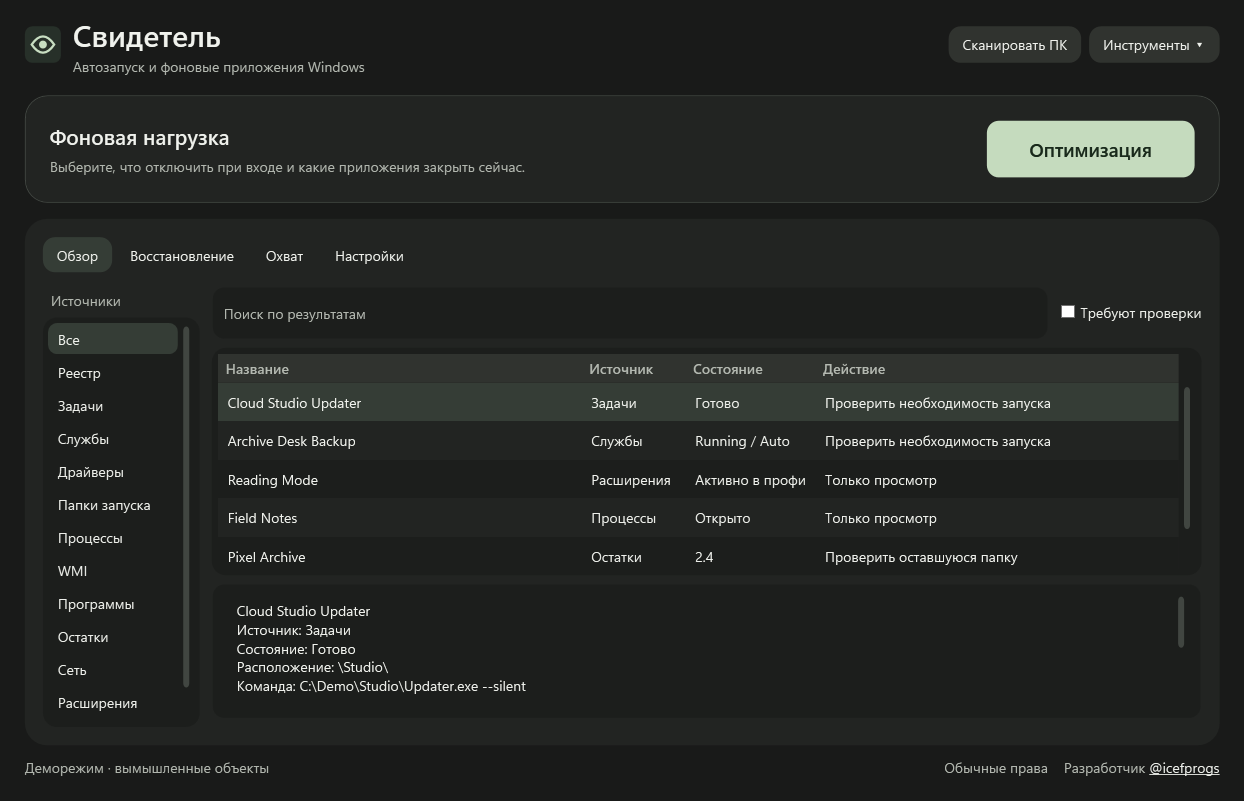
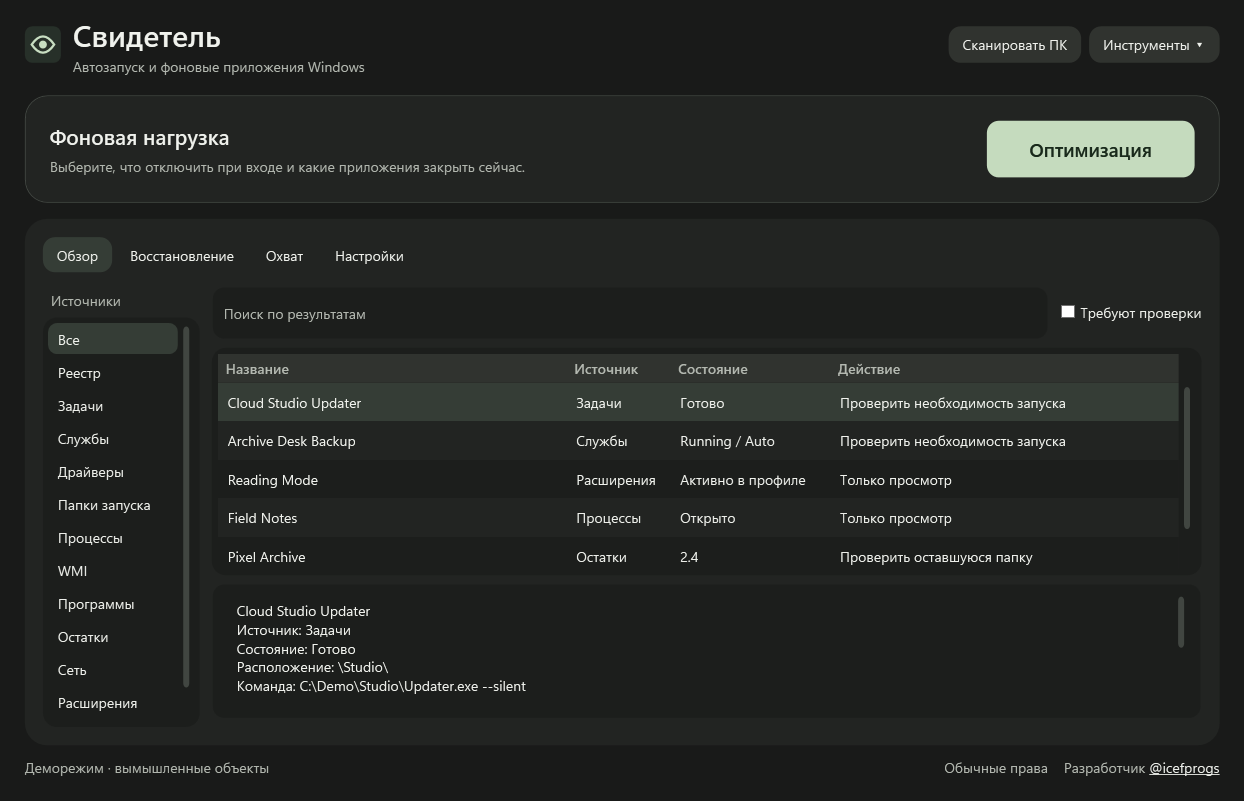
Prepare the Svidetel 3.0.0 release

diff --git a/Svidetel/MainWindow.xaml b/Svidetel/MainWindow.xaml
@@ -85,7 +85,7 @@
                   <DataGrid.Columns>
                     <DataGridTextColumn Header="Название" Binding="{Binding Name}" Width="2*"/>
                     <DataGridTextColumn Header="Источник" Binding="{Binding Category}" Width="104"/>
-                    <DataGridTextColumn Header="Состояние" Binding="{Binding State}" Width="130"/>
+                    <DataGridTextColumn Header="Состояние" Binding="{Binding State}" Width="160"/>
                     <DataGridTextColumn Header="Действие" Binding="{Binding Recommendation}" Width="2*"/>
                   </DataGrid.Columns>
                 </DataGrid>
@@ -137,6 +137,7 @@
               <CheckBox x:Name="WatchEnabled" Content="Уведомлять о возврате отключённого автозапуска" Checked="SettingsChanged" Unchecked="SettingsChanged"/>
               <TextBlock Text="Наблюдение работает, пока «Свидетель» открыт или свёрнут в трей." TextWrapping="Wrap"
                          Foreground="{DynamicResource Muted}" Margin="0,8,0,0"/>
+              <TextBlock x:Name="VersionLabel" Foreground="{DynamicResource Muted}" Margin="0,20,0,0"/>
             </StackPanel>
           </ScrollViewer>
         </TabItem>

diff --git a/Svidetel/MainWindow.xaml.cs b/Svidetel/MainWindow.xaml.cs
@@ -16,6 +16,7 @@ public partial class MainWindow : Window
     public MainWindow()
     {
         InitializeComponent();
+        VersionLabel.Text = $"Версия {typeof(MainWindow).Assembly.GetName().Version?.ToString(3)}";
         Categories.ItemsSource = categories;
         Categories.SelectedIndex = 0;
         AdminLabel.Text = new WindowsPrincipal(WindowsIdentity.GetCurrent()).IsInRole(WindowsBuiltInRole.Administrator)

diff --git a/README.md b/README.md
@@ -4,7 +4,11 @@
 
 Локальный инспектор Windows, с поиском скрытых от обычной автозагрузки точек запуска, отключением по кнопке и журналом восстановления.
 
-Разработчик: [@icefprogs](https://github.com/icefprogs). Лицензия MIT. [Готовые версии](https://github.com/icefprogs/svidetel/releases).
+[**Скачать «Свидетель» для Windows x64**](https://github.com/icefprogs/svidetel/releases/latest/download/Svidetel-windows-x64.zip)
+
+Распакуйте весь ZIP и запустите `Svidetel.exe`. Среда .NET входит в архив.
+
+Разработчик — [@icefprogs](https://github.com/icefprogs). Лицензия MIT. [Все выпуски](https://github.com/icefprogs/svidetel/releases).
 
 ![Обзор компьютера в деморежиме](docs/screenshots/overview.png)
 
